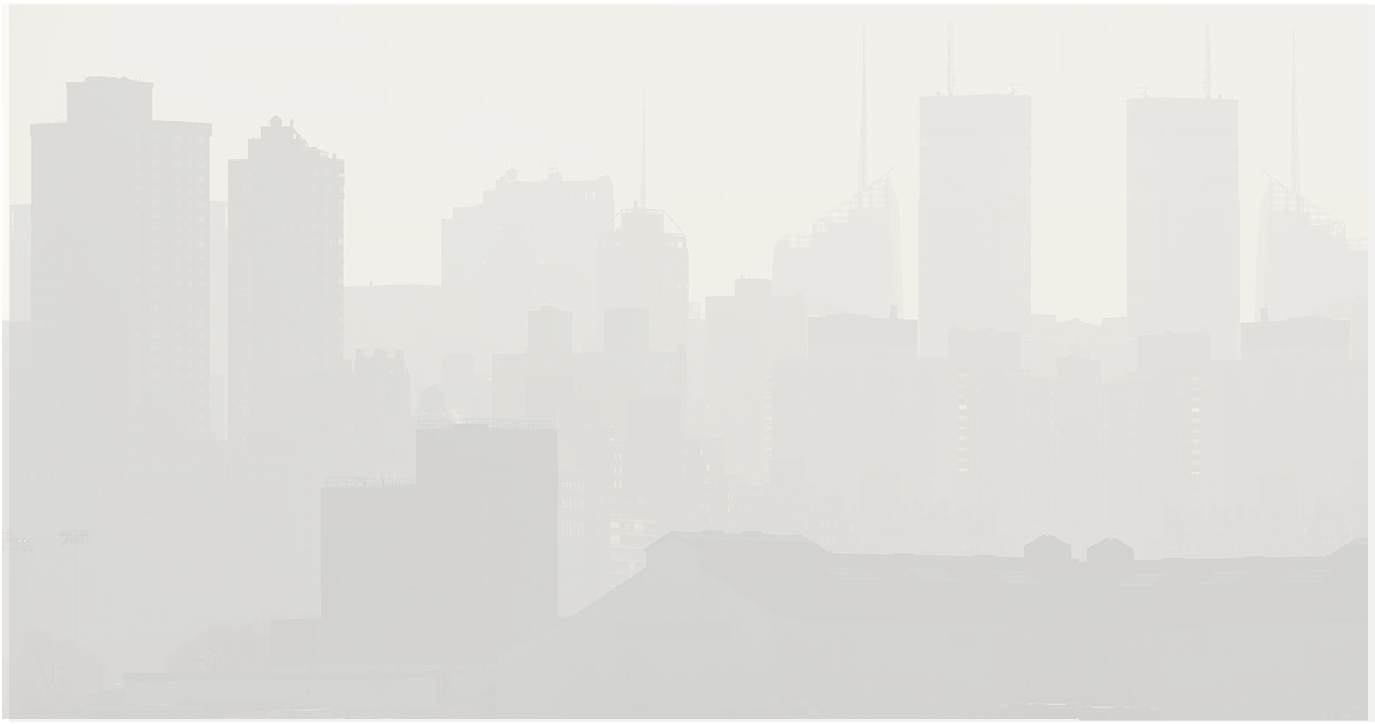
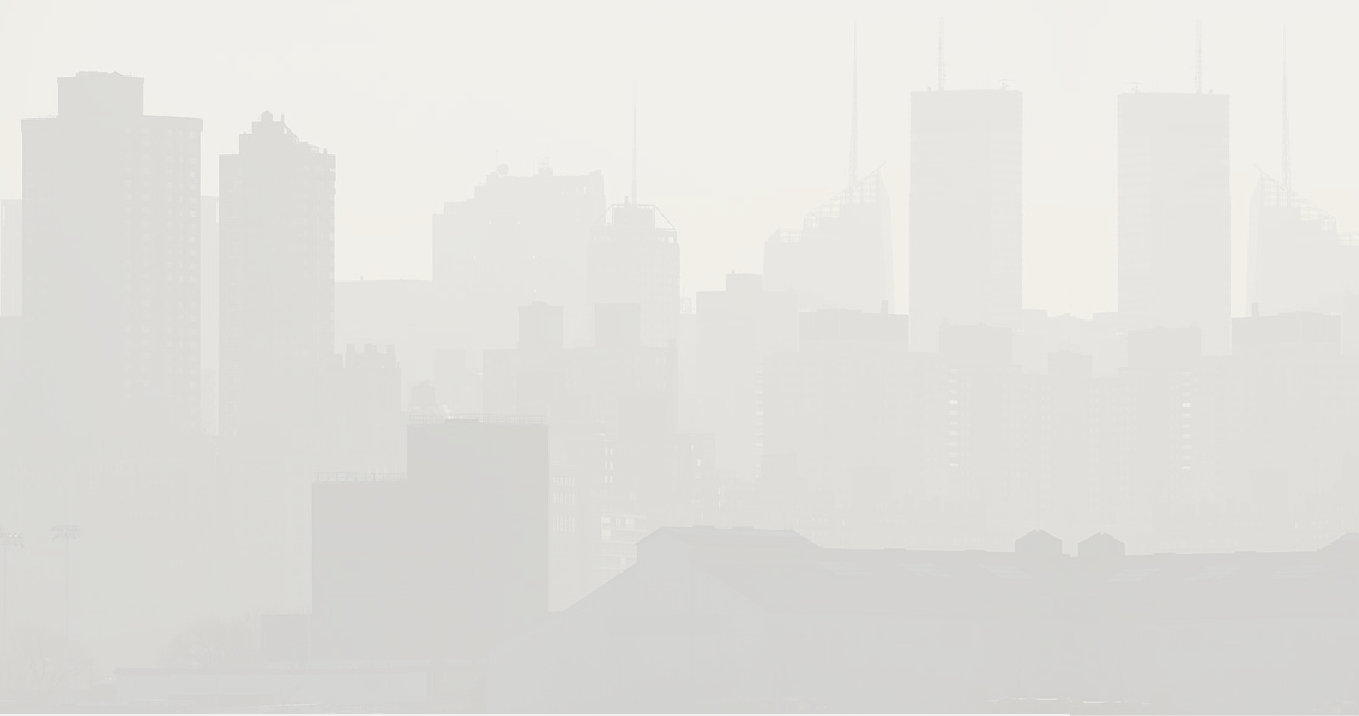
authentication page

Changed region(s): [[0.0, 0.7374, 1.0, 1.0], [0.0, 0.3994, 0.0309, 0.4302], [0.0, 0.338, 0.0309, 0.3687]]

diff --git a/src/components/auth/Authentication.vue b/src/components/auth/Authentication.vue
@@ -1,9 +1,12 @@
 <template>
-    <div>
-        <span> Autenticação </span>
-        <router-link to="auth/signin"> Login </router-link>
-        <span> Cadastro </span>
-    </div>
+  <div class="auth-page centered">
+    <img src="../../assets/init-page.png"/>
+    <br/>
+    <br/>
+    <router-link :to="{name: 'SignIn'}"><button> Login </button></router-link>
+    <router-link :to="{name: 'SignUp'}"><button> Cadastrar </button></router-link>
+    <router-view/>
+  </div>
 </template>
 
 <script>
@@ -11,5 +14,16 @@
 </script>
 
 <style>
+.auth-page {
+  width: 350px;
+  height: 450px;
+  text-align: center;
+}
 
+.auth-page button {
+  width: 80%;
+  height: 40px;
+  margin-bottom: 10px;
+  font-weight: 650px;
+}
 </style>

diff --git a/index.html b/index.html
@@ -3,7 +3,7 @@
   <head>
     <meta charset="utf-8">
     <meta name="viewport" content="width=device-width,initial-scale=1.0">
-    <title>imobiliaria-webapp</title>
+    <title>AeR Corretores</title>
   </head>
   <body>
     <div id="app"></div>
